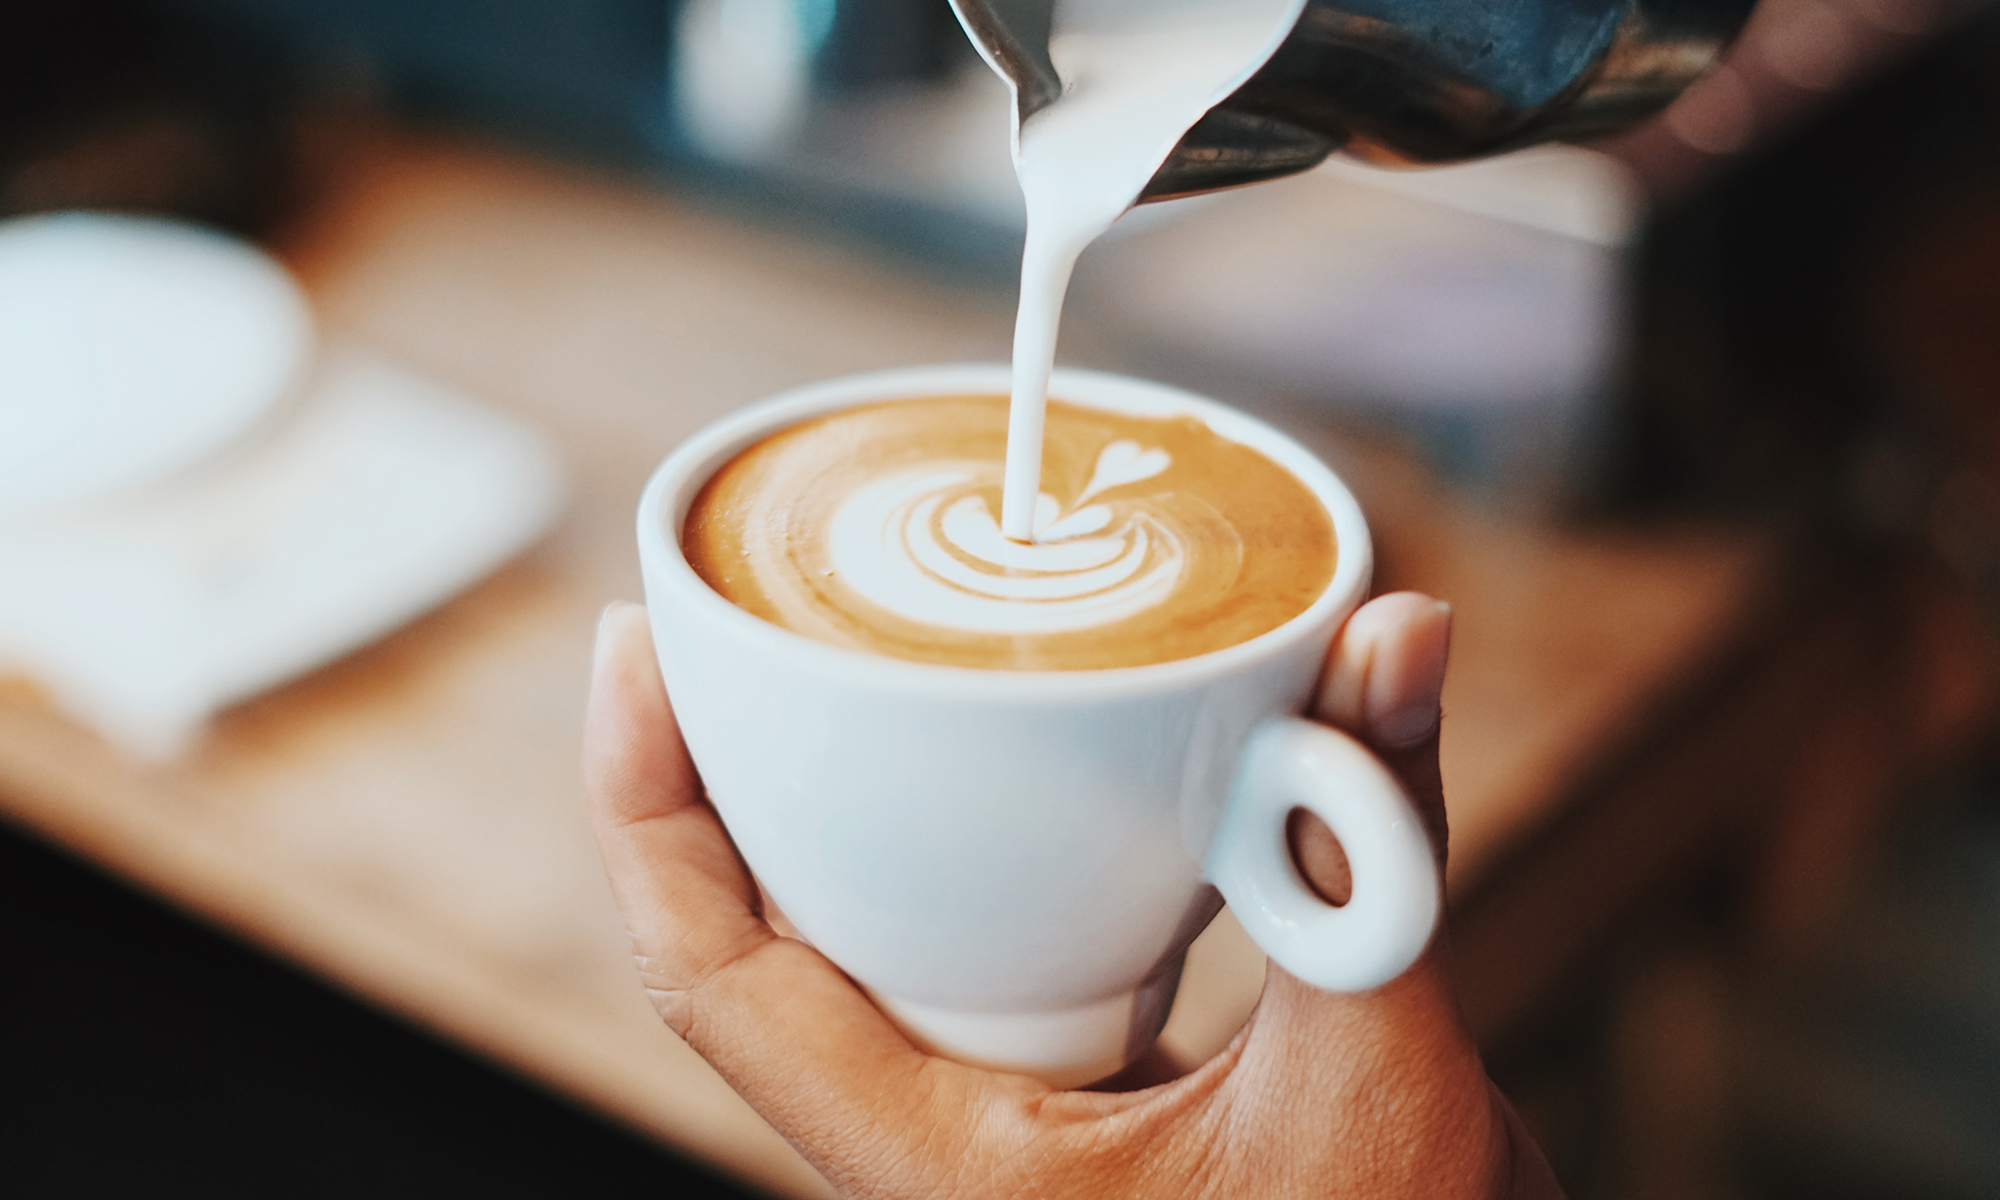
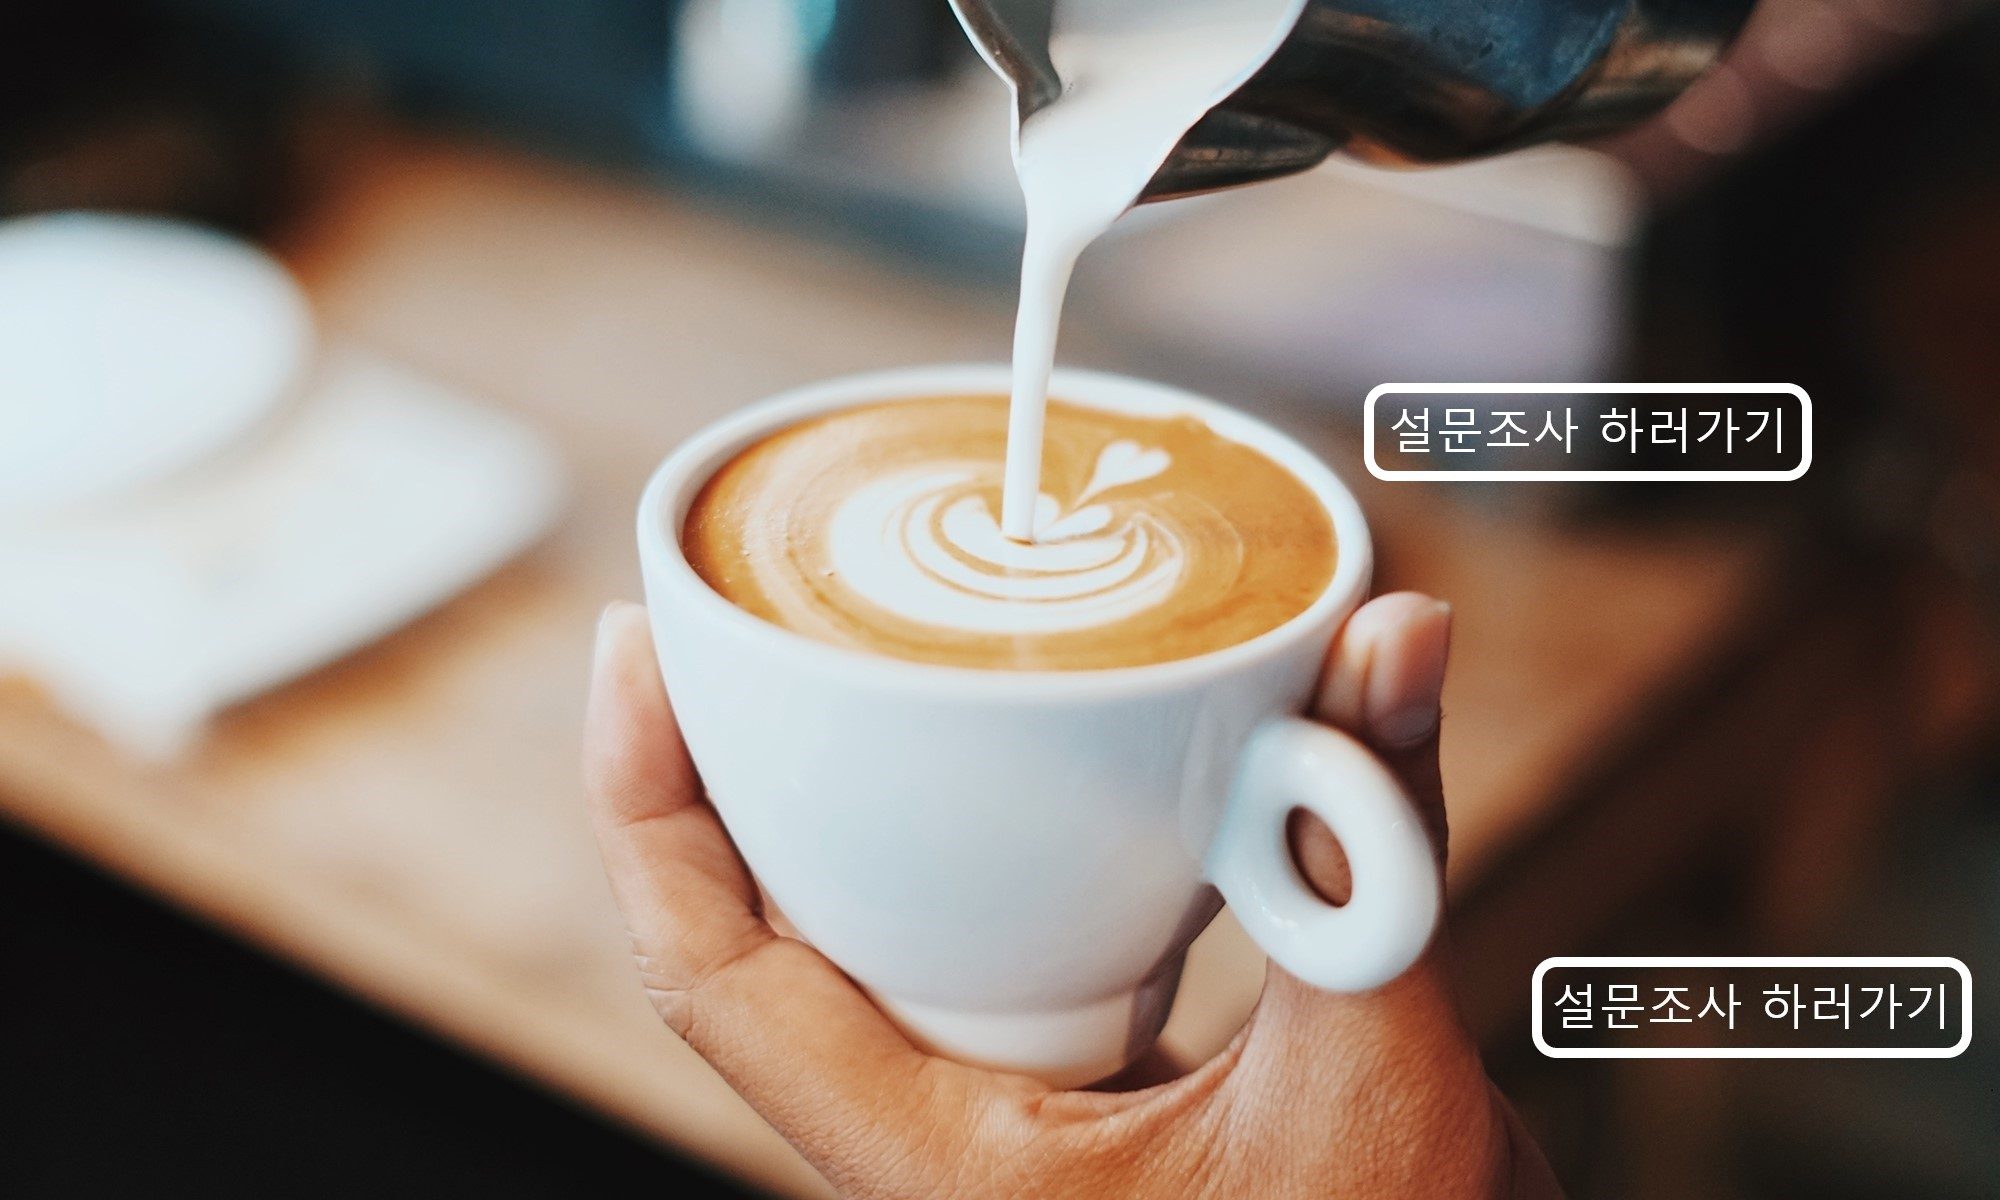
update: 설문조사 화면 수정

Changed region(s): [[0.744, 0.7708, 0.992, 0.8942], [0.682, 0.3083, 0.93, 0.4008]]

diff --git a/survey.html b/survey.html
@@ -115,30 +115,30 @@
         <table>
             <thead>
                 <tr>
-                    <th>브라질 산토스</th>
+                    <th id="recommend_name">브라질 산토스</th>
                 </tr>
             </thead>
             <tbody>
                 <tr>
                     <td>
-                        <image class="show-image"
+                        <image class="show-image" id="recommend_img"
                             src="https://media.istockphoto.com/id/1177900338/ko/%EC%82%AC%EC%A7%84/%EC%BB%A4%ED%94%BC-%EC%BD%A9%EC%9D%84-%EA%B3%81%EB%93%A4%EC%9D%B8-%EC%97%90%EC%8A%A4%ED%94%84%EB%A0%88%EC%86%8C-%ED%95%9C-%EC%9E%94.jpg?s=612x612&w=0&k=20&c=iH6mFbBAd6Wv2OWQLYb_ZJQSCIFwsBAIiIrgDsOAdjc=">
                         </image>
                     </td>
                     <td style="padding: 20px;">
-                        <p class="show-txt">브라질 산토스는 세계 커피생산량의 30%를 차지하며, 산토스 지방의 3,4년 정도 된 어린 커피나무에서 수확한 커피로, NO.2등급이
+                        <p id="recommend_content" class="show-txt">브라질 산토스는 세계 커피생산량의 30%를 차지하며, 산토스 지방의 3,4년 정도 된 어린 커피나무에서 수확한 커피로, NO.2등급이
                             최고 등급입니다. 부드러운 맛과 신맛이 균일하게 조화를 이루고, 부드러운 풍미와 적당히 쓴맛이 어우러진 중성적인 커피로 향이 깊고 깔끔한 마일드 커피입니다.</p>
-                        <a href="index.html"><button class="signup-btn" onclick="saveCookie('guestCheck', 'True')">회원 가입
+                        <a href="signupin.html"><button class="signup-btn" onclick="saveCookie('guestCheck', 'True')">회원 가입
                                 후 구매하러 가기</button></a>
                     </td>
                 </tr>
 
             </tbody>
         </table>
-        <p class="login-text">이미 회원이신가요? <a href="index.html" onclick="saveCookie('guestCheck', 'True')">로그인하러 가기</a>
+        <p class="login-text">이미 회원이신가요? <a href="signupin.html" onclick="saveCookie('guestCheck', 'True')">로그인하러 가기</a>
         </p>
     </div>
-
+    <script src="/js/all_data.js"></script>
     <script src="/js/survey.js"></script>
 </body>
 

diff --git a/js/survey.js b/js/survey.js
@@ -2,7 +2,7 @@ function saveCookie(name, value, unixTime){
     var date = new Date();
     date.setTime(date.getTime() + unixTime*1000*60*60*24);
     document.cookie = encodeURIComponent(name) + '=' + encodeURIComponent(value) + ';expires=' + date.toUTCString() + ';path=/';
-    location.replace('main.html')
+    location.replace('signupin.html')
 }
 
 function startSurvey(){
@@ -19,7 +19,7 @@ function startSurvey(){
 
 
 
-function sendSurvey(){
+async function sendSurvey(){
     const aroma_grade = document.querySelector('input[name="aroma"]:checked').value;
     const sweet_grade = document.querySelector('input[name="sweet"]:checked').value;
     const acidity_grade = document.querySelector('input[name="acidity"]:checked').value;
@@ -27,13 +27,33 @@ function sendSurvey(){
     const sendSurvey = document.getElementsByClassName('sendSurvey')[0].style
     const showSurvey = document.getElementById('showSurvey')
 
+    console.log(aroma_grade, sweet_grade, acidity_grade, balance_grade)
+    const response_survey = await fetch(`${BACK_END_URL}/survey/`, {
+        headers: {
+            'Content-Type': 'application/json'
+        },
+        method: 'POST',
+        body: JSON.stringify({
+            "aroma_grade": aroma_grade,
+            "sweet_grade": sweet_grade,
+            "acidity_grade": acidity_grade,
+            "body_grade": balance_grade,
+        })
+    })
+    const response_json = await response_survey.json()
+    const coffeedata = response_json["data"]["1"]
 
+    const recommend_content = document.getElementById("recommend_content")
+    recommend_content.innerText = coffeedata.content
+    const recommend_img = document.getElementById("recommend_img")
+    recommend_img.src = `${BACK_END_URL}${coffeedata.image}`
+    const recommend_name = document.getElementById("recommend_name")
+    recommend_name.innerText = coffeedata.product_name
 
     const coffeeshow = document.getElementById('coffeeShow')
     showSurvey.style.display = "none"
     sendSurvey.display= "none"
     coffeeshow.style.display = "block";
-
 }
 
 const sweetChecks = document.querySelectorAll('input[name="sweet"]');

diff --git a/js/main.js b/js/main.js
@@ -3,7 +3,27 @@ parsed_payload = JSON.parse(payload)
 
 adminCheck = false
 
+function getCookie(key) {
+    var result = null;
+    var cookie = document.cookie.split(';');
+    for (i=0;i<cookie.length;i++){
+        cookie[i] = cookie[i].replace(' ','')
+        var dic = cookie[i].split('=');
+        if (key == dic[0]){
+            result = dic[1];
+            return dic[1]
+        }
+    }
+    return false
+}
+
 window.addEventListener('load', function () {
+    checkCookie = getCookie('guestCheck')
+    console.log(checkCookie)
+    if (checkCookie!='True'){
+        location.replace('survey.html')
+    }
+
     show_product_list()
 });
 

diff --git a/main.html b/main.html
@@ -28,7 +28,7 @@
         <div class="aa-slider-area">
             <div id="sequence" class="seq">
                 <div id="slide" class="img-box" val="1" max="3">
-                    <img class="slide1" src="/img/slide/11.jpg">
+                    <a href="survey.html"><img class="slide1" src="/img/slide/11.jpg"></a>
                     <img class="slide1" src="/img/slide/22.png">
                     <img class="slide1" src="/img/slide/33.jpg">
                     <img class="slide1" src="/img/slide/44.jpg">
